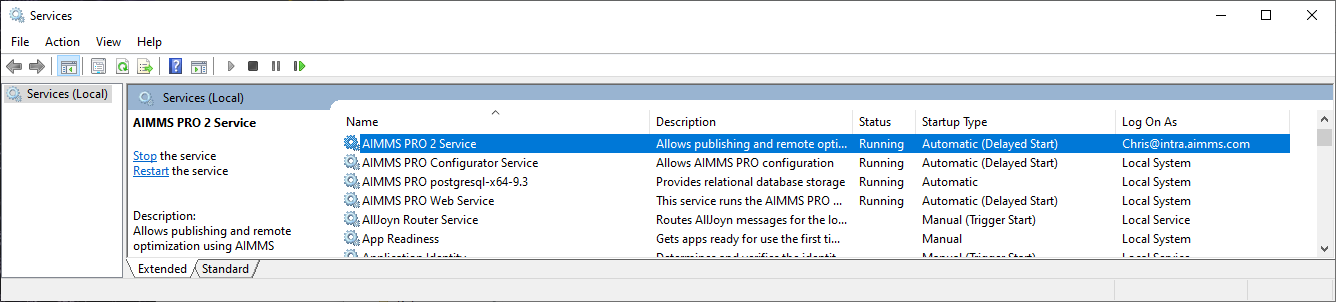
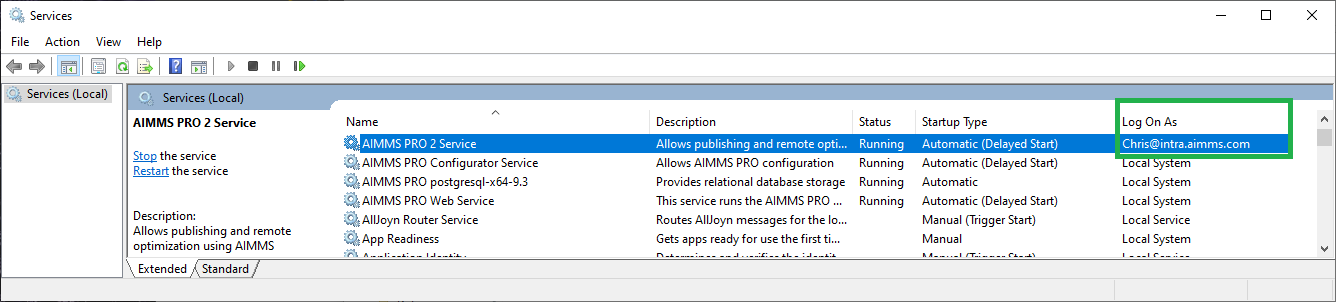
Drafted #299 Change account AIMMS PRO jobs.

Changed region(s): [[0.8286, 0.298, 0.982, 0.5364]]

diff --git a/Articles/299/299-change-account-pro.rst b/Articles/299/299-change-account-pro.rst
@@ -1,15 +1,15 @@
 How do I change the account AIMMS PRO is running on?
 =====================================================
 
-By running a process using a particular account, resources can be acquired that are particular to that account. To make AIMMS jobs use such an account, we need to make the AIMMS PRO service run using that account. This article provides a detailed and verifiable step by step procedure to achieve just this.
+By running a process using a particular account, resources can be acquired that are particular to that account. AIMMS jobs are started using the AIMMS PRO service, and use the same account on which the AIMMS PRO service is running; to make AIMMS jobs use such a particular account, we need to make the AIMMS PRO service run using that account. This article provides a detailed and verifiable step by step procedure to achieve just this.
 
-.. note:: since the end goal is that you’re running on another account then the system account, it might be possible that this new account does not allow you access to resources you previously could; please consult with your system administrator if this is the case.
+.. note:: Since the end goal is that you’re running on another account then the system account, it might be possible that this new account does not allow you access to resources you previously could; please consult with your system administrator if this is the case.
 
 
 Start situation
 ---------------
 
-AIMMS jobs are run on an AIMMS PRO server with the name ``AimmsPROSession.exe``. 
+AIMMS jobs are run on a the AIMMS PRO server with the name ``AimmsPROSession.exe``. 
 
 .. image:: images/AimmsPROSession1.png
     :align: center
@@ -19,6 +19,7 @@ The default account for these jobs is ``SYSTEM``.
 Stop AIMMS PRO services
 ------------------------
 
+Before making changes to the service, it is a good idea to stop those services.
 Log in as an admin on the AIMMS PRO service and stop the services
 
 .. image:: images/StartStopServices1.png
@@ -40,8 +41,12 @@ Select AIMMS PRO 2 service
 .. image:: images/SelectAIMMSPROService1.png
     :align: center
     
+As you can see, by default, the ``SYSTEM`` account is used for this service.
+    
 Select properties
 -----------------------------------------
+
+By selecting the properties of the process
 
 .. image:: images/SelectProperties0.png
     :align: center
@@ -49,17 +54,19 @@ Select properties
 Actually change account
 -----------------------------------------
 
+And then selecting the tab ``Log On``, we are able to select the account on which the AIMMS PRO 2 service will use next time it is started.
+
 .. image:: images/PropertyTabLogOn0.png
     :align: center
     
-Here you can fill in a service account, see also: `service account <https://docs.microsoft.com/en-us/windows/security/identity-protection/access-control/service-accounts>`_
+Here you can fill in another account, such as a service account.  See also: `service account <https://docs.microsoft.com/en-us/windows/security/identity-protection/access-control/service-accounts>`_
 
 Start the service again
 ------------------------
 
-Log in again as an admin on the AIMMS PRO service and stop the services
+Log in again as an admin on the AIMMS PRO service and start the services again:
 
-.. image:: images/StartServices1b.png
+.. image:: images/StartStopServices1b.png
     :align: center
 
 
@@ -68,8 +75,10 @@ Verify via Services
 
 Open up the services window, e.g. by hitting the windows button and typing ‘Services’
 
-.. image:: images/StartServices1b.png
+.. image:: images/SelectAIMMSPROService1b.png
     :align: center
+
+The service is now using the account ``chris``
 
 Verify by starting job
 ----------------------------------------
@@ -79,10 +88,12 @@ Starting the same job again, and opening up the task manager, details tab:
 .. image:: images/AimmsPROSession1b.png
     :align: center
 
-The account used for AIMMS jobs is now ``chris``.
+The account used for this AIMMS job is now ``chris``.
 
+Materials
+----------------
 
-
+To create this article, this :download:`WinUI model <model/WaitABit.zip>` was used. After publishing and launching this app, just press the huge button, to start an AIMMS job that waits for five minutes on the AIMMS PRO server.
 
 
 
